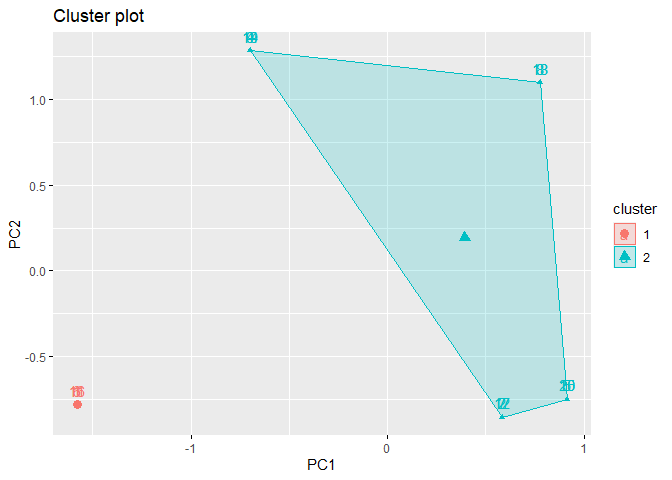
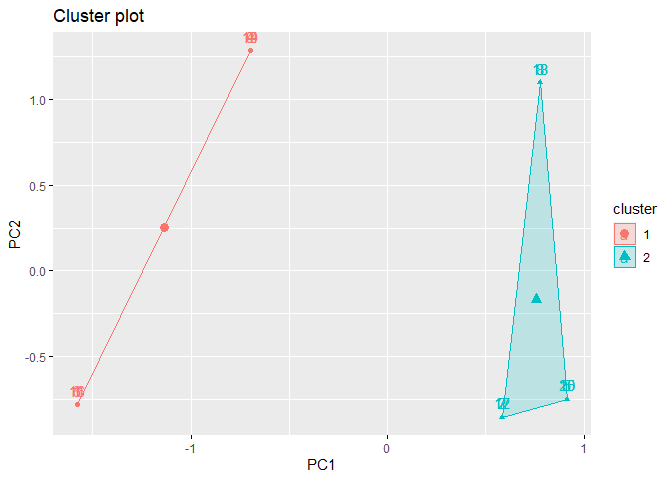
MRA

Changed region(s): [[0.3438, 0.0625, 0.8125, 0.875], [0.2188, 0.4688, 0.25, 0.5]]

diff --git a/MVA_Project1.md b/MVA_Project1.md
@@ -705,7 +705,7 @@ table(kmeans_model$cluster)
 
     ## 
     ##  1  2 
-    ##  4 16
+    ##  8 12
 
 ``` r
 # Visualize cluster and membership using first two Principal Components
@@ -961,3 +961,297 @@ variable while accounting for the influence of others. This makes it a
 powerful tool for various fields like business, finance, and social
 science to uncover relationships and make predictions.
 </p>
+
+#### Model Development
+
+<p>
+We will load the data and convert the data into numerical. we will split
+the data into training and testing data. then we will perform multiple
+regression model
+</p>
+
+#### Model Acceptance
+
+<p>
+Model acceptance involves evaluating the performance of the multiple
+regression model on unseen data or a testing dataset
+</p>
+<p>
+It evaluates the model’s performance through coefficient summaries,
+diagnostic plots, and confidence intervals. Overall, it aims to assess
+the model’s acceptance by analyzing its fit to the data and the
+significance of predictor variables.
+</p>
+
+#### Residual Analysis
+
+<p>
+Residual analysis is crucial for evaluating the assumptions of the
+multiple regression model and identifying any patterns or trends in the
+residuals
+</p>
+<p>
+It will generate diagnostic plots, including a plot of residuals
+vs. fitted values, a QQ plot of residuals, and a scale-location plot.
+These plots can help you assess the assumptions of the multiple
+regression model.
+</p>
+
+``` r
+library(readxl)
+library(dplyr)
+```
+
+    ## 
+    ## Attaching package: 'dplyr'
+
+    ## The following objects are masked from 'package:stats':
+    ## 
+    ##     filter, lag
+
+    ## The following objects are masked from 'package:base':
+    ## 
+    ##     intersect, setdiff, setequal, union
+
+``` r
+mydata <- read_excel("News Website Dataset_2.xlsx")
+data_num <- mydata[, c("Avg_Session_Duration", "Total_Sessions", "Total_revenue","Conversion_Rate")]
+
+model <- lm(Conversion_Rate ~ Time_of_Day + Traffic_Source + 
+                    Landing_Page + Campaign + 
+                    Content_Category + Device_Category + 
+                    Avg_Session_Duration, data = mydata)
+model_fit <- summary(model)
+print(model_fit)
+```
+
+    ## 
+    ## Call:
+    ## lm(formula = Conversion_Rate ~ Time_of_Day + Traffic_Source + 
+    ##     Landing_Page + Campaign + Content_Category + Device_Category + 
+    ##     Avg_Session_Duration, data = mydata)
+    ## 
+    ## Residuals:
+    ##      Min       1Q   Median       3Q      Max 
+    ## -0.46689 -0.17101  0.00555  0.18987  0.40556 
+    ## 
+    ## Coefficients: (12 not defined because of singularities)
+    ##                                Estimate Std. Error t value Pr(>|t|)    
+    ## (Intercept)                    0.537965   0.068696   7.831 7.92e-13 ***
+    ## Time_of_DayEvening             0.040988   0.052290   0.784    0.434    
+    ## Time_of_DayMorning            -0.039018   0.052269  -0.746    0.457    
+    ## Time_of_DayNight               0.031191   0.052393   0.595    0.553    
+    ## Traffic_SourceOrganic Search  -0.009775   0.058807  -0.166    0.868    
+    ## Traffic_SourceOrganic Social  -0.076678   0.058599  -1.309    0.193    
+    ## Traffic_SourcePaid Search      0.019777   0.059268   0.334    0.739    
+    ## Traffic_SourceReferral        -0.039162   0.058389  -0.671    0.503    
+    ## Landing_Page/article-page            NA         NA      NA       NA    
+    ## Landing_Page/blog/new-product        NA         NA      NA       NA    
+    ## Landing_Page/catgory-page            NA         NA      NA       NA    
+    ## Landing_PageMobile                   NA         NA      NA       NA    
+    ## CampaignPaid                         NA         NA      NA       NA    
+    ## CampaignSEO Campaign                 NA         NA      NA       NA    
+    ## CampaignSocial Media                 NA         NA      NA       NA    
+    ## Content_CategoryBlog                 NA         NA      NA       NA    
+    ## Content_CategoryHomepage             NA         NA      NA       NA    
+    ## Content_CategoryProduct              NA         NA      NA       NA    
+    ## Device_CategoryMobile                NA         NA      NA       NA    
+    ## Device_CategoryTablet                NA         NA      NA       NA    
+    ## Avg_Session_Duration          -0.002713   0.015963  -0.170    0.865    
+    ## ---
+    ## Signif. codes:  0 '***' 0.001 '**' 0.01 '*' 0.05 '.' 0.1 ' ' 1
+    ## 
+    ## Residual standard error: 0.2335 on 151 degrees of freedom
+    ## Multiple R-squared:  0.03912,    Adjusted R-squared:  -0.01179 
+    ## F-statistic: 0.7684 on 8 and 151 DF,  p-value: 0.6311
+
+``` r
+plot(model)
+```
+
+![](MVA_Project1_files/figure-gfm/unnamed-chunk-14-1.png)<!-- -->![](MVA_Project1_files/figure-gfm/unnamed-chunk-14-2.png)<!-- -->![](MVA_Project1_files/figure-gfm/unnamed-chunk-14-3.png)<!-- -->![](MVA_Project1_files/figure-gfm/unnamed-chunk-14-4.png)<!-- -->
+
+``` r
+coefficients(model_fit)
+```
+
+    ##                                  Estimate Std. Error    t value     Pr(>|t|)
+    ## (Intercept)                   0.537965201 0.06869645  7.8310480 7.921501e-13
+    ## Time_of_DayEvening            0.040988434 0.05228957  0.7838740 4.343419e-01
+    ## Time_of_DayMorning           -0.039017597 0.05226948 -0.7464699 4.565442e-01
+    ## Time_of_DayNight              0.031191238 0.05239325  0.5953293 5.525145e-01
+    ## Traffic_SourceOrganic Search -0.009774794 0.05880742 -0.1662170 8.682085e-01
+    ## Traffic_SourceOrganic Social -0.076678220 0.05859907 -1.3085228 1.926842e-01
+    ## Traffic_SourcePaid Search     0.019776721 0.05926824  0.3336816 7.390828e-01
+    ## Traffic_SourceReferral       -0.039161739 0.05838940 -0.6706994 5.034366e-01
+    ## Avg_Session_Duration         -0.002713297 0.01596264 -0.1699780 8.652549e-01
+
+``` r
+library(GGally)
+```
+
+    ## Warning: package 'GGally' was built under R version 4.3.2
+
+    ## Registered S3 method overwritten by 'GGally':
+    ##   method from   
+    ##   +.gg   ggplot2
+
+``` r
+ggpairs(data=mydata, title="News Website Data")
+```
+
+    ## `stat_bin()` using `bins = 30`. Pick better value with `binwidth`.
+
+    ## `stat_bin()` using `bins = 30`. Pick better value with `binwidth`.
+    ## `stat_bin()` using `bins = 30`. Pick better value with `binwidth`.
+    ## `stat_bin()` using `bins = 30`. Pick better value with `binwidth`.
+    ## `stat_bin()` using `bins = 30`. Pick better value with `binwidth`.
+    ## `stat_bin()` using `bins = 30`. Pick better value with `binwidth`.
+    ## `stat_bin()` using `bins = 30`. Pick better value with `binwidth`.
+    ## `stat_bin()` using `bins = 30`. Pick better value with `binwidth`.
+    ## `stat_bin()` using `bins = 30`. Pick better value with `binwidth`.
+    ## `stat_bin()` using `bins = 30`. Pick better value with `binwidth`.
+    ## `stat_bin()` using `bins = 30`. Pick better value with `binwidth`.
+    ## `stat_bin()` using `bins = 30`. Pick better value with `binwidth`.
+    ## `stat_bin()` using `bins = 30`. Pick better value with `binwidth`.
+    ## `stat_bin()` using `bins = 30`. Pick better value with `binwidth`.
+    ## `stat_bin()` using `bins = 30`. Pick better value with `binwidth`.
+    ## `stat_bin()` using `bins = 30`. Pick better value with `binwidth`.
+    ## `stat_bin()` using `bins = 30`. Pick better value with `binwidth`.
+    ## `stat_bin()` using `bins = 30`. Pick better value with `binwidth`.
+    ## `stat_bin()` using `bins = 30`. Pick better value with `binwidth`.
+    ## `stat_bin()` using `bins = 30`. Pick better value with `binwidth`.
+    ## `stat_bin()` using `bins = 30`. Pick better value with `binwidth`.
+    ## `stat_bin()` using `bins = 30`. Pick better value with `binwidth`.
+    ## `stat_bin()` using `bins = 30`. Pick better value with `binwidth`.
+    ## `stat_bin()` using `bins = 30`. Pick better value with `binwidth`.
+
+![](MVA_Project1_files/figure-gfm/unnamed-chunk-14-5.png)<!-- -->
+
+``` r
+confint(model_fit,level=0.95)
+```
+
+    ##      2.5 % 97.5 %
+
+``` r
+fitted(model_fit)
+```
+
+    ## NULL
+
+``` r
+residuals(model_fit)
+```
+
+    ##            1            2            3            4            5            6 
+    ## -0.123111549 -0.360096786 -0.046027030 -0.246940173  0.090742721  0.279170568 
+    ##            7            8            9           10           11           12 
+    ## -0.084165414 -0.079500866 -0.373352326 -0.030002640  0.065996420  0.009022928 
+    ##           13           14           15           16           17           18 
+    ##  0.255899954 -0.431288001 -0.127944432  0.023653774  0.093244837  0.371814707 
+    ##           19           20           21           22           23           24 
+    ##  0.027734704  0.091621759 -0.209843374  0.360816270  0.119593866 -0.239902084 
+    ##           25           26           27           28           29           30 
+    ## -0.232559140  0.081424396 -0.004229678  0.117924690 -0.053054172  0.151867910 
+    ##           31           32           33           34           35           36 
+    ## -0.310992608  0.063824503 -0.377451127  0.270602312 -0.355422527 -0.329935855 
+    ##           37           38           39           40           41           42 
+    ## -0.061813639  0.249580217 -0.358341559  0.365273927  0.030534362  0.236312512 
+    ##           43           44           45           46           47           48 
+    ##  0.346700813  0.144262893 -0.136887797  0.060319312 -0.441863854  0.244915562 
+    ##           49           50           51           52           53           54 
+    ##  0.147777897  0.326369306  0.141827334 -0.023418115  0.041554918  0.305013827 
+    ##           55           56           57           58           59           60 
+    ## -0.023335016 -0.370417408  0.093208352  0.039649306  0.045803711  0.267400274 
+    ##           61           62           63           64           65           66 
+    ##  0.060489292  0.122278448 -0.278054848  0.399083448 -0.144719595  0.189101089 
+    ##           67           68           69           70           71           72 
+    ## -0.175368439 -0.326034289  0.315382296 -0.219911381  0.322271240  0.192161019 
+    ##           73           74           75           76           77           78 
+    ## -0.286943859  0.240446052  0.324639201 -0.223598971  0.046085663 -0.008242092 
+    ##           79           80           81           82           83           84 
+    ## -0.292260879 -0.333806322 -0.156603080 -0.101445318 -0.165814034  0.120829214 
+    ##           85           86           87           88           89           90 
+    ##  0.385213151  0.039170934 -0.343622378 -0.159370260  0.229683603 -0.011793418 
+    ##           91           92           93           94           95           96 
+    ##  0.264922063 -0.321647007 -0.133505316 -0.367563941  0.144935805  0.024284176 
+    ##           97           98           99          100          101          102 
+    ## -0.011638078  0.315526566  0.331373291 -0.281370264 -0.075692822  0.277153216 
+    ##          103          104          105          106          107          108 
+    ## -0.146933440  0.159272741 -0.286633491 -0.083138765  0.234027741 -0.033674470 
+    ##          109          110          111          112          113          114 
+    ## -0.021826323  0.405560900  0.012343414  0.008203661  0.033391106  0.179917522 
+    ##          115          116          117          118          119          120 
+    ##  0.042710685 -0.170625779  0.309936765  0.220707934  0.170953304  0.138579779 
+    ##          121          122          123          124          125          126 
+    ##  0.186763487  0.349762438 -0.108857930 -0.347999516 -0.287034066 -0.078285826 
+    ##          127          128          129          130          131          132 
+    ##  0.277991822  0.252252540 -0.124300251 -0.149213432  0.132150795  0.002901012 
+    ##          133          134          135          136          137          138 
+    ## -0.219110133 -0.292321108  0.277233878 -0.237114062 -0.255744886 -0.080619173 
+    ##          139          140          141          142          143          144 
+    ##  0.249248258  0.319564669  0.340417849  0.001617525 -0.043619849  0.273816829 
+    ##          145          146          147          148          149          150 
+    ## -0.266885154  0.041197439 -0.237471298 -0.037324863 -0.154469625 -0.172164040 
+    ##          151          152          153          154          155          156 
+    ##  0.321977135  0.210863633 -0.368543808 -0.160486732 -0.064836686 -0.248654980 
+    ##          157          158          159          160 
+    ## -0.466887456  0.290115205 -0.147095211 -0.207194563
+
+#### Prediction
+
+<p>
+The predict() function will generate predicted values of the dependent
+variable (Total_revenue) based on the provided predictors.
+</p>
+
+``` r
+new_data <- data.frame(Time_of_Day = "Morning",
+                       Traffic_Source = "Organic Search",
+                       Landing_Page = "/blog/new-product",
+                       Campaign = "SEO Campaign",
+                       Content_Category = "Blog",
+                       Device_Category = "Desktop",
+                       Avg_Session_Duration = 4.23,
+                       Total_Sessions = 325,
+                       Conversion_Rate = 0.35)
+
+# Make predictions
+predicted_total_revenue <- predict(model, newdata = new_data)
+predicted_total_revenue
+```
+
+    ##         1 
+    ## 0.4776956
+
+##### Model Accuracy
+
+<p>
+Model accuracy can be assessed using various metrics, such as R-squared,
+adjusted R-squared, and root mean squared error (RMSE). Here’s how you
+can calculate these metrics
+</p>
+
+``` r
+#Model Accuracy
+rsquared <- summary(model)$r.squared
+cat("R-squared:", rsquared, "\n")
+```
+
+    ## R-squared: 0.03911893
+
+``` r
+adjusted_rsquared <- summary(model)$adj.r.squared
+cat("Adjusted R-squared:", adjusted_rsquared, "\n")
+```
+
+    ## Adjusted R-squared: -0.01178868
+
+``` r
+predictions <- predict(model)
+rmse <- sqrt(mean((data$Total_revenue - predictions)^2))
+cat("RMSE:", rmse, "\n")
+```
+
+    ## RMSE: 193.7647
